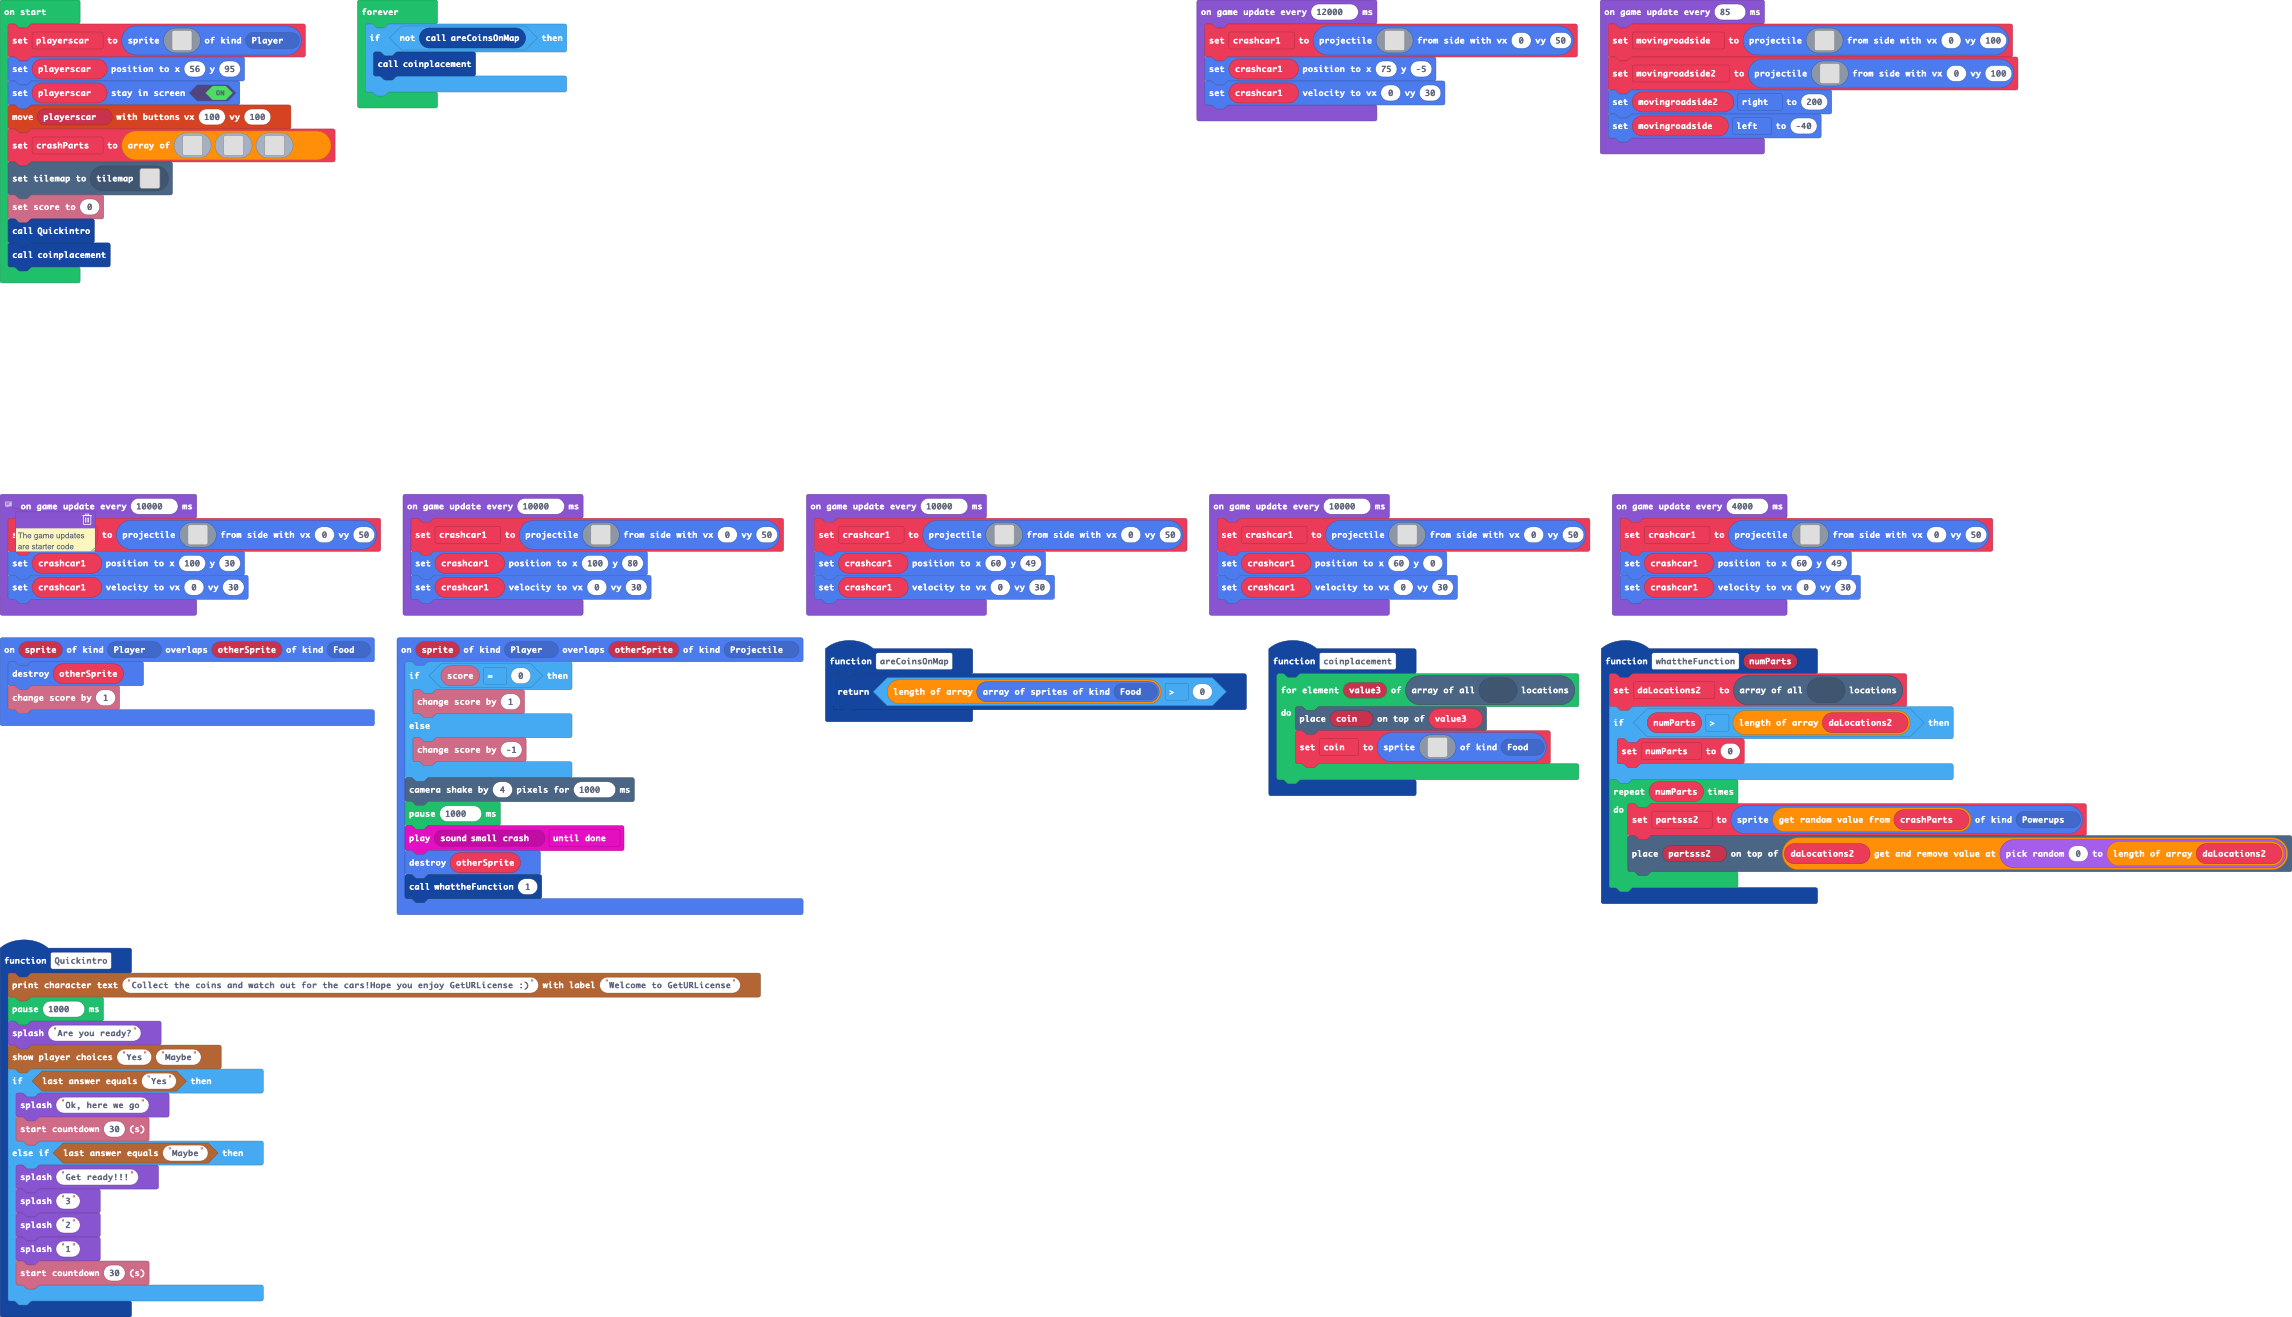
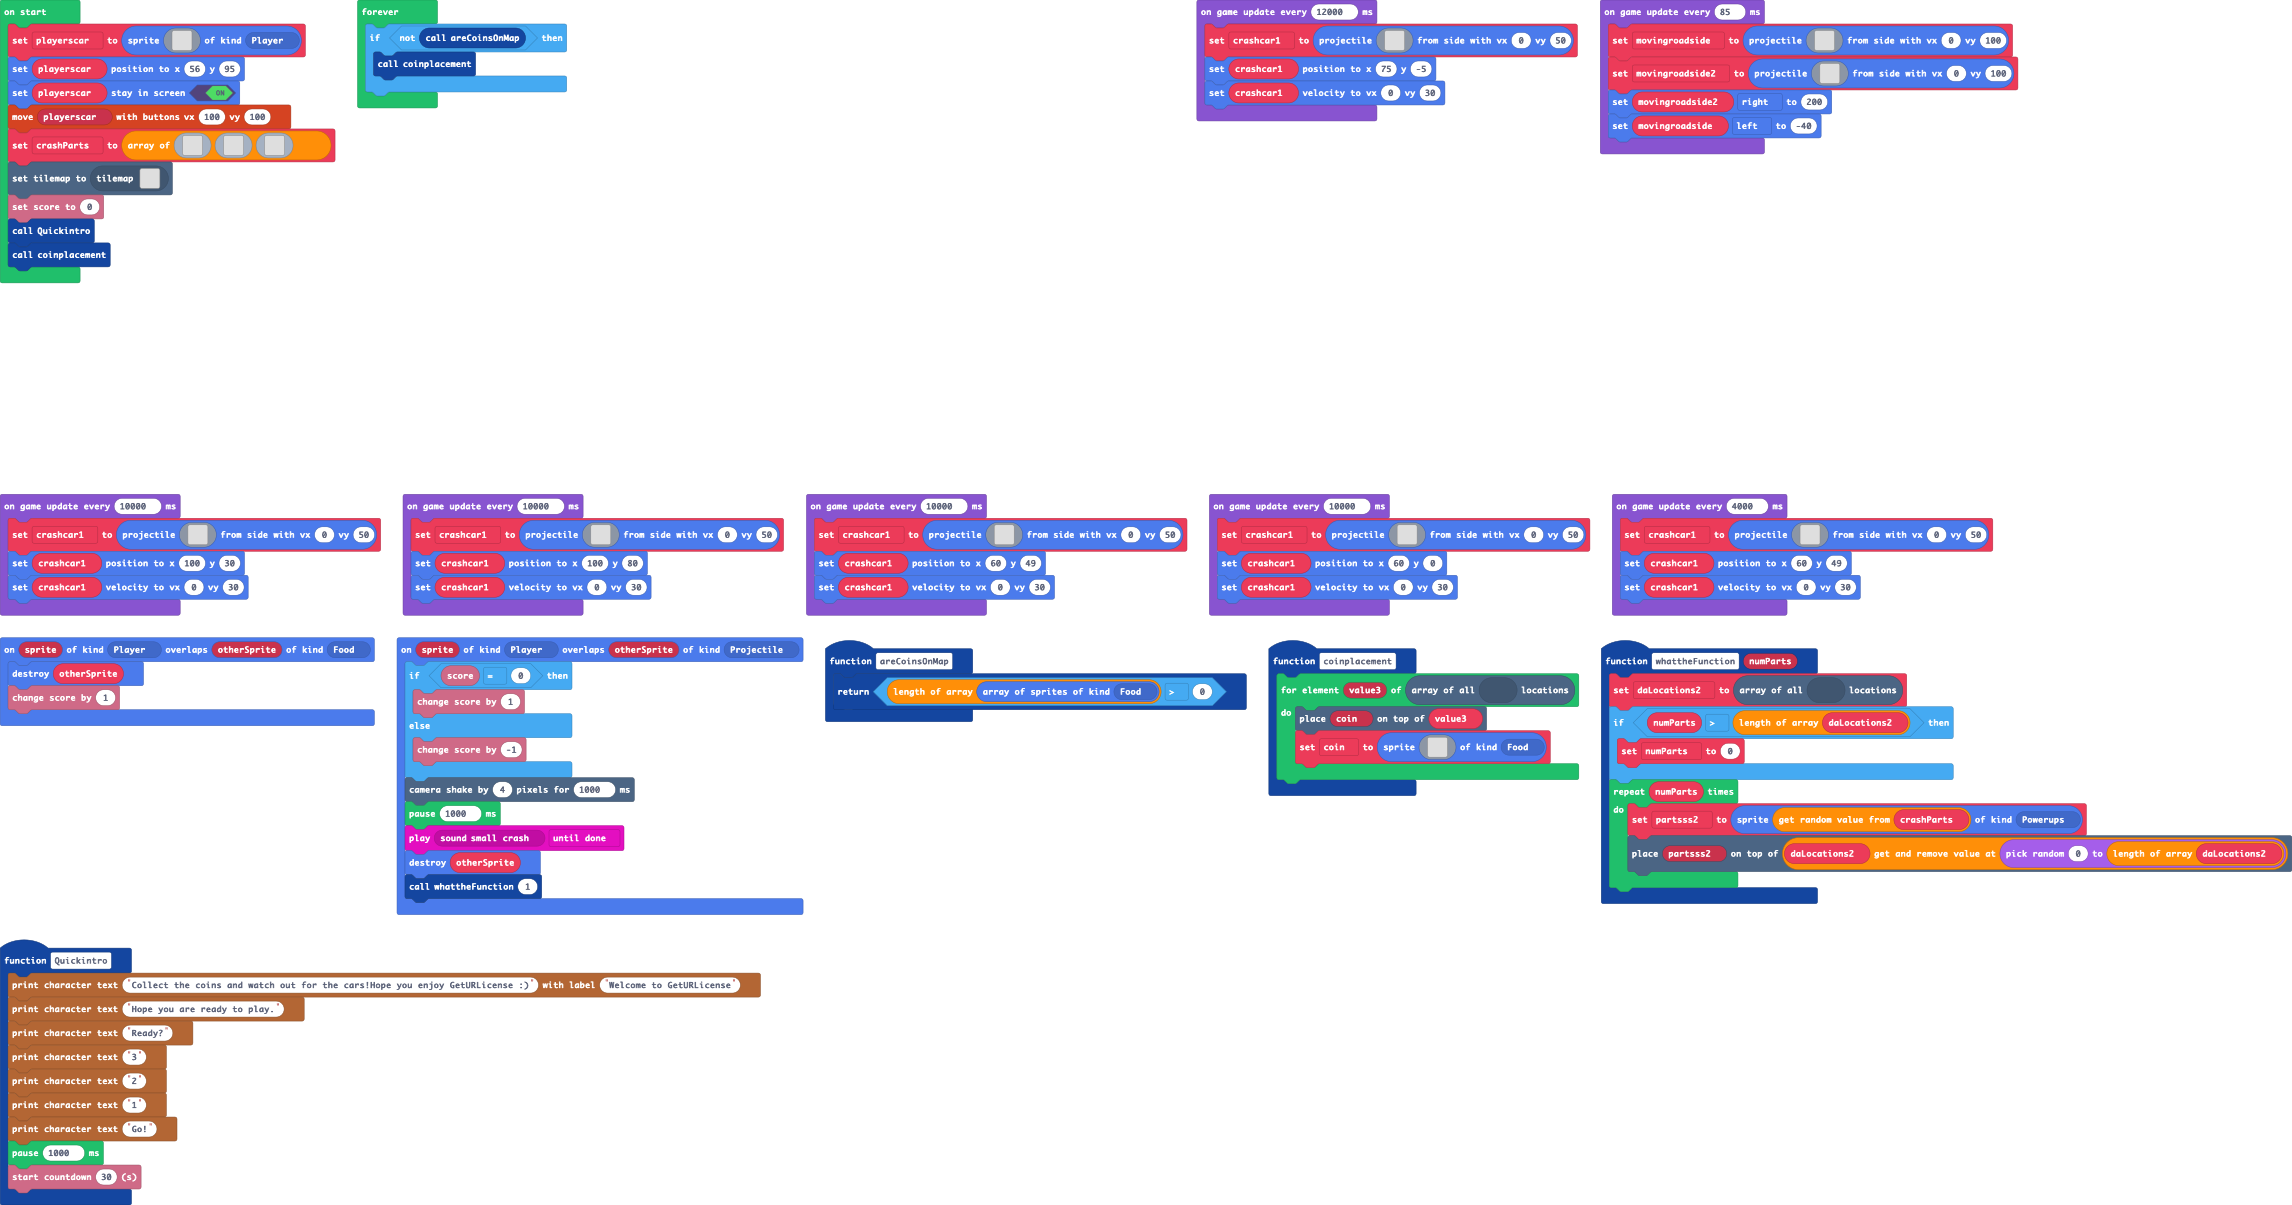
Update pxt.json, main.blocks, main.ts

diff --git a/main.ts b/main.ts
@@ -58,19 +58,14 @@ sprites.onOverlap(SpriteKind.Player, SpriteKind.Food, function (sprite, otherSpr
 })
 function Quickintro () {
     story.printCharacterText("Collect the coins and watch out for the cars!Hope you enjoy GetURLicense :)", "Welcome to GetURLicense")
+    story.printCharacterText("Hope you are ready to play.")
+    story.printCharacterText("Ready?")
+    story.printCharacterText("3")
+    story.printCharacterText("2")
+    story.printCharacterText("1")
+    story.printCharacterText("Go!")
     pause(1000)
-    game.splash("Are you ready?")
-    story.showPlayerChoices("Yes", "Maybe")
-    if (story.checkLastAnswer("Yes")) {
-        game.splash("Ok, here we go")
-        info.startCountdown(30)
-    } else if (story.checkLastAnswer("Maybe")) {
-        game.splash("Get ready!!!")
-        game.splash("3")
-        game.splash("2")
-        game.splash("1")
-        info.startCountdown(30)
-    }
+    info.startCountdown(30)
 }
 let movingroadside2: Sprite = null
 let movingroadside: Sprite = null
@@ -234,7 +229,6 @@ forever(function () {
         coinplacement()
     }
 })
-// The game updates are starter code attained from MakeCode for micro:bit-Racer Game Part 1 link: https://www.youtube.com/watch?v=8wTYVDOyc_c
 game.onUpdateInterval(10000, function () {
     crashcar1 = sprites.createProjectileFromSide(img`
         . . . . . . 8 8 c c 8 8 . . . . 
